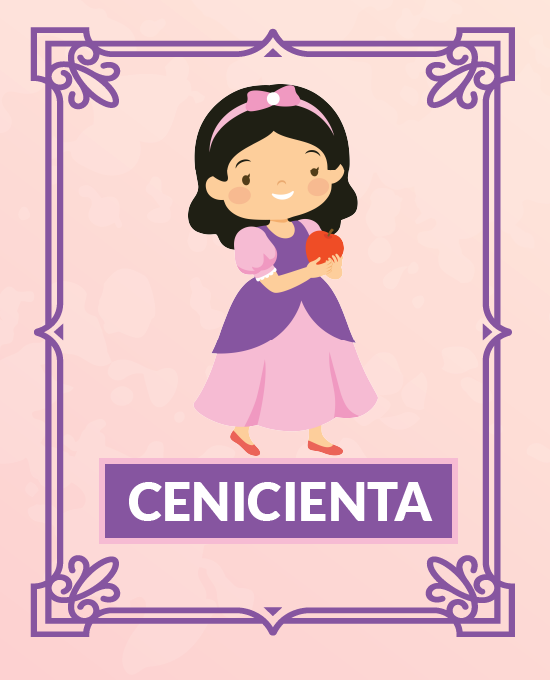
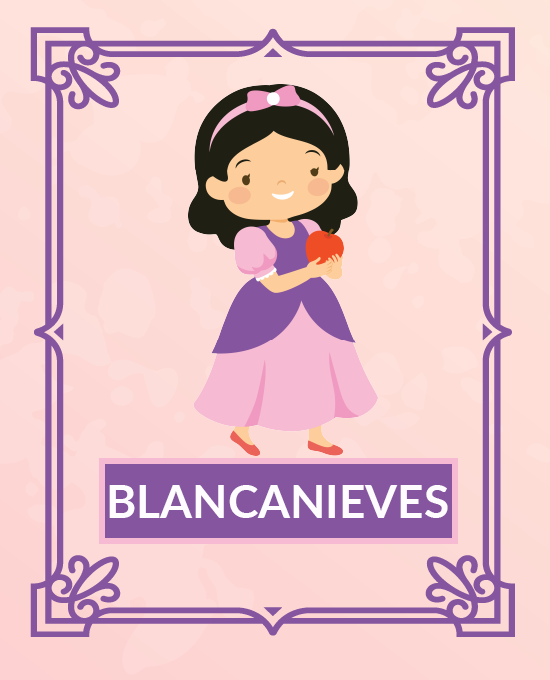
version 1.01

Changed region(s): [[0.1855, 0.7103, 0.8345, 0.7721]]

diff --git a/index.html b/index.html
@@ -37,7 +37,7 @@
         <img class="img-fondo" src="./res/img/fondo.png" alt="imagen fondo">
 
         <div id="inicio" class="container-fluid tapa-libro">
-            <img id="img-inicio" class="img" src="./res/img/inicio.png" alt="imagen inicio"
+            <img id="img-inicio" class="img" src="./res/img/inicio2.png" alt="imagen inicio"
                 oncontextmenu="return false;">
         </div>
 
